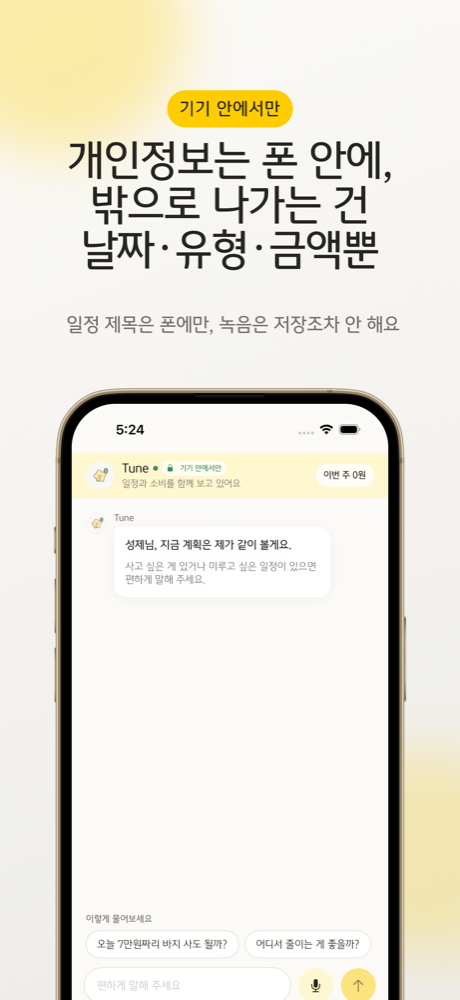
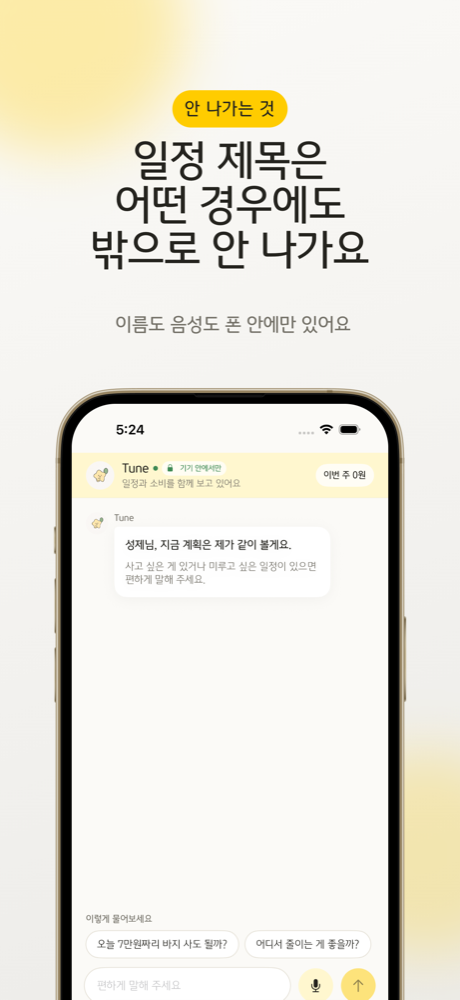
스크린샷 — 보안 슬라이드를 지킬 수 있는 문장으로
"개인정보는 폰 안에, 밖으로 나가는 건 날짜·유형·금액뿐"은 조건 없는 단정이었다.
클라우드 AI를 켜면 월수입·저축목표·카드 청구액이 나가고, 웹 검색을 켜면 질문
원문이 나간다. 심사에 걸 수 없는 문장이다.

전부를 단정하는 대신 하나를 확실히 말한다 — 일정 제목은 어떤 경우에도 안 나간다.
이건 코드로 강제돼 있고 회귀 테스트 두 개가 지킨다. 라벨도 '기기 안에서만'에서
'안 나가는 것'으로 바꿨다. 못 지키는 약속을 배지로 달고 있을 이유가 없다.

1320×2868 8장 다시 뽑았다.

Changed region(s): [[0.1522, 0.093, 0.8522, 0.279], [0.1522, 0.31, 0.8826, 0.341]]

diff --git a/README.md b/README.md
@@ -32,9 +32,9 @@
 <img src="docs/appstore/05-ask.png" width="190" alt="언제든 물어보기" />
 <img src="docs/appstore/06-analysis.png" width="190" alt="소비 분석" />
 <img src="docs/appstore/07-products.png" width="190" alt="카드·적금" />
-<img src="docs/appstore/08-privacy.png" width="190" alt="기기 안에서만" />
+<img src="docs/appstore/08-privacy.png" width="190" alt="안 나가는 것" />
 
-<sub>언제든 물어보기 · 소비 분석 · 카드·적금 · 기기 안에서만</sub>
+<sub>언제든 물어보기 · 소비 분석 · 카드·적금 · 안 나가는 것</sub>
 
 </div>
 
